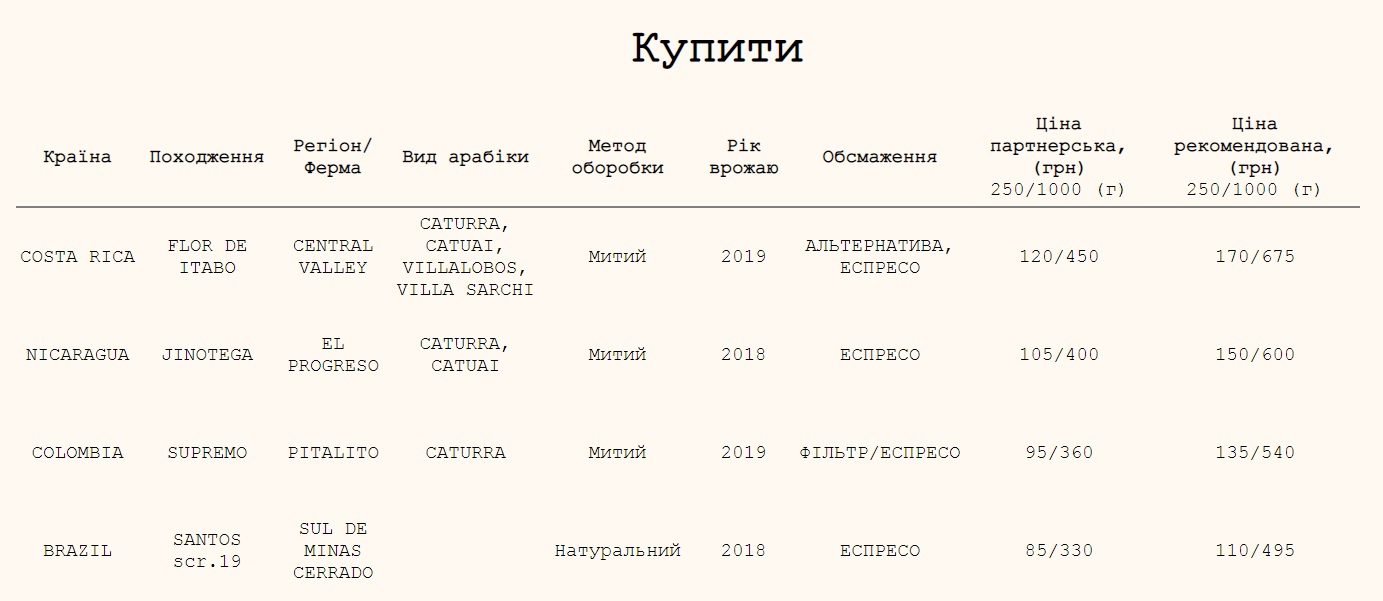
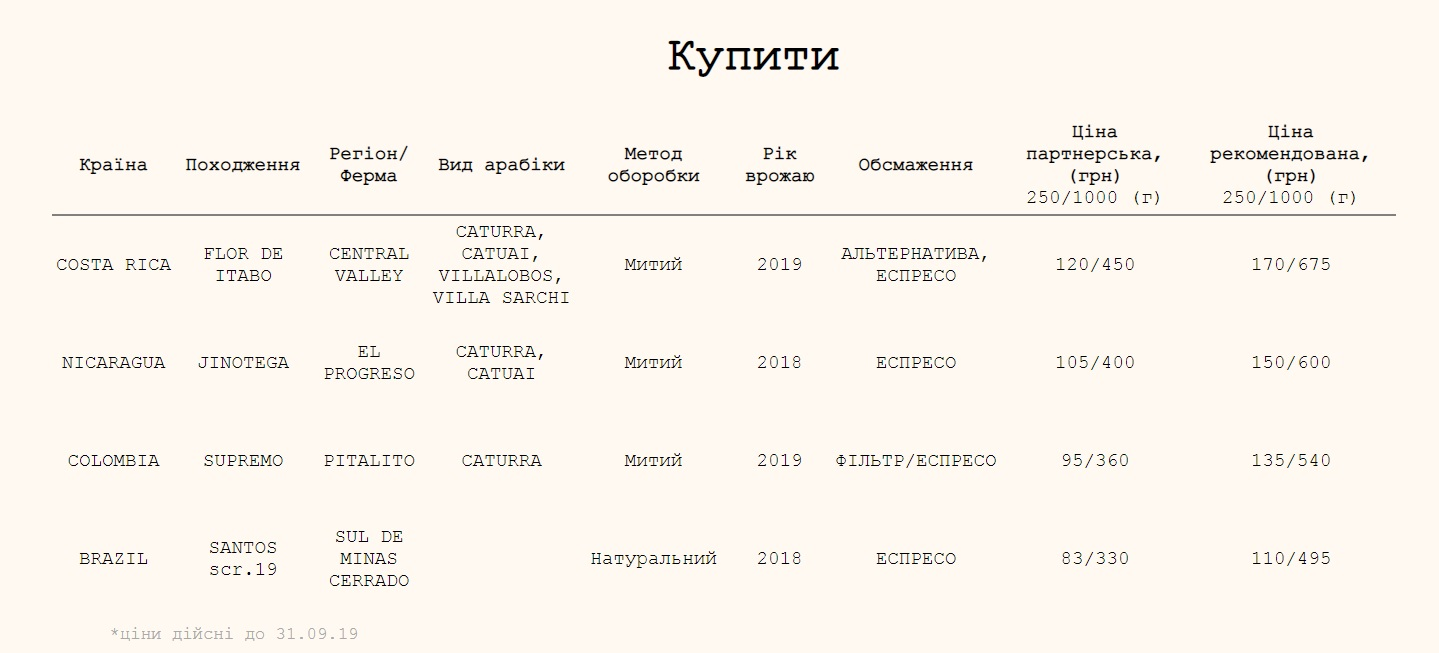
com8

diff --git a/russian.html b/russian.html
@@ -29,7 +29,7 @@
             <div class="language">
                 <div class="circle"><a class="lang" href="index.html">UA</a></div>
                 <div class="circle"><a class="lang" href="russian.html">RU</a></div>
-                <div class="circle"><a class="lang" href="english.html">ENG</a></div>
+                <!-- <div class="circle"><a class="lang" href="english.html">ENG</a></div> -->
             </div>
             <img class="main_logo" src="img/logotype.png">
             <p class="main_text">Палярня кофе, обьединяющая поколения.<br> Мы не говорим о качестве, мы его обеспечиваем!</p>
@@ -221,6 +221,7 @@
                         <td>110/495</td>
                     </tr>   
                 </table>
+                <p class="price_date">*цены действительны до 31.09.19</p>
                 <a href="https://twogen.bitrix24.ua/pub/form/6/ldwj6g/"><button class="opt_order">Заказать</button></a>
                 <a href="prices/Prices_ru.jpg"  download="prices" class="download">Загрузить цены</a>
                 <img class="coffee_beans_opt" src="img/Coffee-Beans-section4.png">
@@ -265,7 +266,7 @@
         <div class="language">
             <div class="circle"><a class="lang" href="index.html">UA</a></div>
             <div class="circle"><a class="lang" href="russian.html">RU</a></div>
-            <div class="circle"><a class="lang" href="english.html">ENG</a></div>
+            <!-- <div class="circle"><a class="lang" href="english.html">ENG</a></div> -->
         </div>
         <img class="head_logo" src="img/LOGO-01.png">
         <button class="hamburger">&#9776;</button>
@@ -470,7 +471,7 @@
                                     </tr>   
                                 </table>
                     </div>
-                  
+                    <p class="price_date">*цены действительны до 31.09.19</p>
                     <a href="https://twogen.bitrix24.ua/pub/form/6/ldwj6g/"><button class="opt_order">Заказать</button></a>
                     <p><a href="prices/Prices_ru.jpg" class="download" download="prices">Загрузить цены</a></p>
                     <img class="coffee_beans_opt" src="img/Coffee-Beans-section4.png">

diff --git a/index.html b/index.html
@@ -29,7 +29,7 @@
             <div class="language">
                 <div class="circle"><a class="lang" href="index.html">UA</a></div>
                 <div class="circle"><a class="lang" href="russian.html">RU</a></div>
-                <div class="circle"><a class="lang" href="english.html">ENG</a></div>
+                <!-- <div class="circle"><a class="lang" href="english.html">ENG</a></div> -->
             </div>
             <img class="main_logo" src="img/logotype.png">
             <p class="main_text">Палярня кави, яка об’єднує покоління.<br> Ми не говоримо про якість, ми її забезпечуємо!</p>
@@ -234,6 +234,7 @@
                         <td>110/495</td>
                     </tr>   
                 </table>
+                <p class="price_date">*ціни дійсні до 31.09.19</p>
                 <a href="https://twogen.bitrix24.ua/pub/form/6/ldwj6g/"><button class="opt_order">Замовити</button></a>
                 <a href="prices/Prices.jpg"  download="prices" class="download">Завантажити ціни</a>
                 <img class="coffee_beans_opt" src="img/Coffee-Beans-section4.png">
@@ -278,7 +279,7 @@
         <div class="language">
             <div class="circle"><a class="lang" href="index.html">UA</a></div>
             <div class="circle"><a class="lang" href="russian.html">RU</a></div>
-            <div class="circle"><a class="lang" href="english.html">ENG</a></div>
+            <!-- <div class="circle"><a class="lang" href="english.html">ENG</a></div> -->
         </div>
         <img class="head_logo" src="img/LOGO-01.png">
         <button class="hamburger">&#9776;</button>
@@ -483,7 +484,7 @@
                                     </tr>   
                                 </table>
                     </div>
-                  
+                    <p class="price_date">*ціни дійсні до 31.09.19</p>
                     <a href="https://twogen.bitrix24.ua/pub/form/6/ldwj6g/"><button class="opt_order">Замовити</button></a>
                     <p><a href="prices/Prices.jpg" class="download" download="prices">Завантажити ціни</a></p>
                     <img class="coffee_beans_opt" src="img/Coffee-Beans-section4.png">

diff --git a/css/style.css b/css/style.css
@@ -435,7 +435,7 @@
         width: 8.7vw;
         height: 2.3vw;
         margin-left: 39.5vw;
-        margin-top: 2.5vw;
+        margin-top: -0.5vw;
         background-color: transparent;
         border: 1px solid black;
         font-family: "Courier prime";
@@ -459,6 +459,13 @@
 
     .light {
         font-weight: 300;
+    }
+
+    .price_date {
+        font-family: "Courier prime";
+        font-size: 0.9vw;
+        color: darkgray;
+        margin-left: 10vw;
     }
     
 
@@ -1056,6 +1063,12 @@
         font-weight: 300;
     }
     
-    
+    .price_date {
+        font-family: "Courier prime";
+        font-size: 3vw;
+        margin-left: 5vw;
+    }
 }
+
+
 
